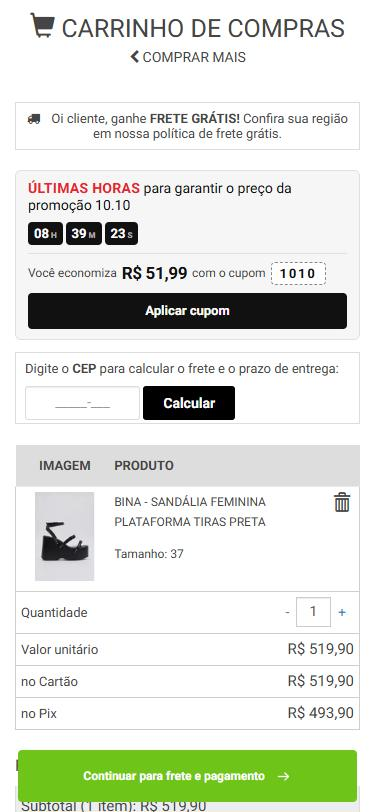
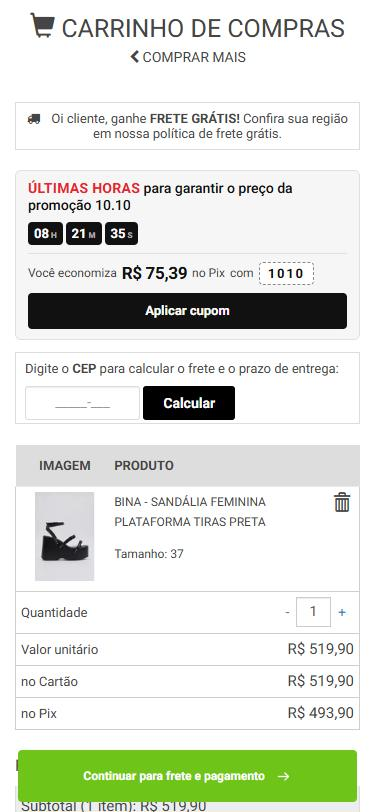
09/10

diff --git a/Fernando/PROJETOS-HTML/Fernando/css/UseHitzz/Ação 10.10/Tag Produto/tagEmAlta.js b/Fernando/PROJETOS-HTML/Fernando/css/UseHitzz/Ação 10.10/Tag Produto/tagEmAlta.js
@@ -1,0 +1,231 @@
+(function () {
+  "use strict";
+
+  /* =========================================================
+     HITZZ - TAG "EM ALTA"
+     Aparece em todas as páginas, sobre a foto de todo produto
+     que tiver a classe "tag-em-alta" (a plataforma coloca essa
+     classe no card quando o produto recebe a tag "em alta").
+     Na página do produto, entra acima do título quando o
+     <body> tiver a mesma classe.
+
+     Não tem calendário: enquanto o produto tiver a tag, aparece.
+  ========================================================= */
+
+  if (window.__hzEmAltaLoaded) {
+    return;
+  }
+
+  window.__hzEmAltaLoaded = true;
+
+
+  /* =========================================================
+     CONFIGURAÇÃO
+  ========================================================= */
+
+  var CONFIG = {
+    label: "Em alta",
+    icon: "🔥",
+
+    // Classe que a plataforma põe no produto com a tag
+    classeDoProduto: "tag-em-alta"
+  };
+
+  var SELETORES = {
+    card: ".product." + CONFIG.classeDoProduto,
+    foto: ".product-list-image-container",
+    paginaDeProduto: "body." + CONFIG.classeDoProduto,
+    tituloDoProduto: "#right-column h1.product-title, h1.product-title"
+  };
+
+  var STYLE_ID = "hz-em-alta-style";
+  var TAG_CLASS = "hz-em-alta";
+
+  var observer = null;
+  var observerFrame = null;
+
+
+  /* =========================================================
+     CSS
+     Mesmo estilo dos selos da loja ("Pré Venda"): preto, cantos
+     de 5px, texto branco em negrito. Fica no canto superior
+     direito da foto, para não disputar espaço com os selos da
+     esquerda.
+  ========================================================= */
+
+  var CSS = [
+    // Seletor com a classe da foto na frente: nas vitrines em carrossel a loja tem
+    // ".owl-item span{font-size:14px}", que ganharia de uma classe só
+    '.product-list-image-container .hz-em-alta,.hz-em-alta.hz-em-alta--pdp{box-sizing:border-box;display:inline-flex;align-items:center;gap:5px;margin:0;padding:6px 10px;border-radius:5px;background:#000;color:#fff;font-family:inherit;font-size:10px;font-weight:700;line-height:1.2;letter-spacing:.06em;text-transform:uppercase;white-space:nowrap;-webkit-font-smoothing:antialiased}',
+    '.product-list-image-container .hz-em-alta{position:absolute;top:10px;right:10px;z-index:11;pointer-events:none}',
+    '.hz-em-alta .hz-em-alta__txt{font-size:inherit;line-height:1.2;letter-spacing:inherit}',
+    '.hz-em-alta .hz-em-alta__icon{font-size:12px;letter-spacing:0;line-height:1}',
+
+    /* Na página do produto: acima do título */
+    '.hz-em-alta.hz-em-alta--pdp{margin:0 0 8px}',
+
+    '@media (max-width:600px){',
+    '.product-list-image-container .hz-em-alta{top:8px;right:8px;gap:4px;padding:5px 8px;font-size:9px}',
+    '.hz-em-alta .hz-em-alta__icon{font-size:11px}',
+    /* Card estreito com a tag "Último dia" da ação 10.10 na mesma linha: "Em alta" desce
+       para a linha de baixo. Se houver selo da loja (ex.: "Pré Venda"), é a "Último dia"
+       que desce, e "Em alta" continua em cima. */
+    '.product-list-image-container:has(.hz1010-tag):not(:has(.uoou-product-tag-badge)) .hz-em-alta{top:40px}',
+    '}'
+  ].join("");
+
+  function adicionarEstilo() {
+
+    if (document.getElementById(STYLE_ID)) {
+      return;
+    }
+
+    var style = document.createElement("style");
+
+    style.id = STYLE_ID;
+    style.textContent = CSS;
+
+    document.head.appendChild(style);
+  }
+
+
+  /* =========================================================
+     TAG
+  ========================================================= */
+
+  function criarTag(naPaginaDeProduto) {
+
+    var tag = document.createElement("span");
+
+    tag.className = TAG_CLASS + (naPaginaDeProduto ? " hz-em-alta--pdp" : "");
+
+    var texto = document.createElement("span");
+
+    texto.className = "hz-em-alta__txt";
+    texto.textContent = CONFIG.label;
+
+    var icone = document.createElement("span");
+
+    icone.className = "hz-em-alta__icon";
+    icone.textContent = CONFIG.icon;
+    icone.setAttribute("aria-hidden", "true");
+
+    tag.appendChild(texto);
+    tag.appendChild(icone);
+
+    return tag;
+  }
+
+  function temTag(pai) {
+
+    // Só os filhos diretos contam: evita tag duplicada no mesmo lugar
+    for (var i = 0; i < pai.children.length; i++) {
+
+      if (pai.children[i].classList.contains(TAG_CLASS)) {
+        return true;
+      }
+    }
+
+    return false;
+  }
+
+  function aplicar() {
+
+    var cards = document.querySelectorAll(SELETORES.card);
+    var pdp = document.querySelector(SELETORES.paginaDeProduto);
+
+    // Tira a tag de cards que perderam a classe (listas recarregadas por AJAX)
+    var tags = document.querySelectorAll(SELETORES.foto + " > ." + TAG_CLASS);
+
+    for (var t = 0; t < tags.length; t++) {
+
+      if (!tags[t].closest(SELETORES.card)) {
+        tags[t].remove();
+      }
+    }
+
+    if (!cards.length && !pdp) {
+      return;
+    }
+
+    adicionarEstilo();
+
+    // Cards de produto (home, categorias, busca, vitrines)
+    for (var i = 0; i < cards.length; i++) {
+
+      var foto = cards[i].querySelector(SELETORES.foto);
+
+      if (foto && !temTag(foto)) {
+        foto.appendChild(criarTag(false));
+      }
+    }
+
+    // Página do produto: acima do título
+    if (pdp) {
+
+      var titulo = document.querySelector(SELETORES.tituloDoProduto);
+
+      if (
+        titulo &&
+        titulo.parentNode &&
+        !(titulo.previousElementSibling && titulo.previousElementSibling.classList.contains(TAG_CLASS))
+      ) {
+        titulo.parentNode.insertBefore(criarTag(true), titulo);
+      }
+    }
+  }
+
+
+  /* =========================================================
+     OBSERVER
+     Cobre produtos carregados depois (paginação, filtros, vitrines)
+  ========================================================= */
+
+  function iniciarObserver() {
+
+    if (observer || !window.MutationObserver) {
+      return;
+    }
+
+    observer = new MutationObserver(function () {
+
+      if (observerFrame) {
+        return;
+      }
+
+      // setTimeout em vez de requestAnimationFrame: funciona também com a aba em segundo plano
+      observerFrame = setTimeout(function () {
+
+        observerFrame = null;
+
+        aplicar();
+      }, 60);
+    });
+
+    observer.observe(document.documentElement, {
+      childList: true,
+      subtree: true,
+      attributes: true,
+      attributeFilter: ["class"]
+    });
+  }
+
+
+  /* =========================================================
+     START
+  ========================================================= */
+
+  function init() {
+
+    aplicar();
+
+    iniciarObserver();
+  }
+
+  if (document.readyState === "loading") {
+    document.addEventListener("DOMContentLoaded", init);
+  } else {
+    init();
+  }
+
+})();

diff --git a/Fernando/PROJETOS-HTML/Fernando/css/UseHitzz/Ação 10.10/Carrinho/cupomCarrinho.js b/Fernando/PROJETOS-HTML/Fernando/css/UseHitzz/Ação 10.10/Carrinho/cupomCarrinho.js
@@ -31,7 +31,7 @@
     headlineRest: "para garantir o preço da promoção 10.10",
     coupon: "1010",
 
-    // O cupom dá 10% sobre o valor dos produtos
+    // O cupom dá 10%; no bloco ele é somado ao desconto do Pix que o carrinho já mostra
     couponDiscount: 0.10
   };
 
@@ -41,7 +41,8 @@
     linhaCupom: ".rowCartPromotionCodes",
     campoCupom: "#uoou_cart_promotionCoupons_0",
     botaoCupom: "#apply-coupon",
-    subtotal: "#cartContainer .cartSubtotal .itemTotalPrice"
+    subtotal: "#cartContainer .cartSubtotal .itemTotalPrice",
+    totalPix: "#cartContainer .cart-cash-payment .cash-price"
   };
 
 
@@ -194,6 +195,7 @@
     /* Economia com o cupom + botão */
     '.hz1010-cart__foot{display:flex;flex-wrap:wrap;align-items:center;justify-content:space-between;gap:10px 20px;margin-top:12px;padding-top:12px;border-top:1px solid #e0e0e0}',
     '.hz1010-cart__saving{display:flex;flex-wrap:wrap;align-items:center;gap:4px 7px;margin:0;color:#444;font-size:14px;line-height:1.2}',
+    '.hz1010-cart__pix[hidden]{display:none}',
     '.hz1010-cart__value{color:#111;font-size:20px;font-weight:800;line-height:1;letter-spacing:-.02em;font-variant-numeric:tabular-nums}',
     '.hz1010-cart__code{display:inline-block;padding:5px 10px;border:1px dashed #8a8a8a;border-radius:4px;background:#fff;color:#111;font-size:15px;font-weight:800;line-height:1;letter-spacing:.14em}',
     '.hz1010-cart__btn{-webkit-appearance:none;appearance:none;display:inline-flex;align-items:center;justify-content:center;width:auto;height:40px;min-width:0;margin:0;padding:0 22px;border:0;border-radius:4px;background:#111;box-shadow:none;color:#fff;font:inherit;font-size:14px;font-weight:700;line-height:1;letter-spacing:0;text-transform:none;white-space:nowrap;cursor:pointer;transition:background-color .15s}',
@@ -219,6 +221,7 @@
     '.hz1010-cart__saving{gap:3px 5px;font-size:12px}',
     '.hz1010-cart__value{font-size:17px}',
     '.hz1010-cart__code{padding:4px 8px;font-size:13px}',
+    '.hz1010-cart__lg{display:none}',
     '.hz1010-cart__btn{width:100%;height:36px;font-size:13px}',
     '}',
 
@@ -250,7 +253,7 @@
         '<span class="hz1010-cart__clock" data-hz1010-cart-timer aria-hidden="true"></span>' +
       '</div>' +
       '<div class="hz1010-cart__foot">' +
-        '<p class="hz1010-cart__saving"><span data-hz1010-cart-lead></span><strong class="hz1010-cart__value" data-hz1010-cart-saving></strong><span>com o cupom</span><span class="hz1010-cart__code">' + esc(CONFIG.coupon) + '</span></p>' +
+        '<p class="hz1010-cart__saving"><span data-hz1010-cart-lead></span><strong class="hz1010-cart__value" data-hz1010-cart-saving></strong><span class="hz1010-cart__pix" data-hz1010-cart-pix>no Pix</span><span>com<span class="hz1010-cart__lg"> o cupom</span></span><span class="hz1010-cart__code">' + esc(CONFIG.coupon) + '</span></p>' +
         '<button type="button" class="hz1010-cart__btn" data-hz1010-cart-apply></button>' +
       '</div>';
   }
@@ -277,10 +280,36 @@
       return false;
     }
 
-    var economia = Math.round(subtotal * CONFIG.couponDiscount * 100) / 100;
     var aplicado = cupomAplicado();
 
     bloco.classList.toggle("is-applied", aplicado);
+
+    // Economia pagando no Pix = produtos - total no Pix já com o cupom.
+    // Antes de aplicar, o total no Pix exibido ainda não tem os 10% do cupom.
+    var pix = lerPreco(document.querySelector(SELETORES.totalPix));
+    var temPix = pix > 0 && pix < subtotal;
+
+    var economia;
+
+    if (temPix) {
+
+      var pixFinal = aplicado
+        ? pix
+        : Math.round(pix * (1 - CONFIG.couponDiscount) * 100) / 100;
+
+      economia = Math.round((subtotal - pixFinal) * 100) / 100;
+
+    } else {
+
+      // Sem preço no Pix no carrinho: mostra só a economia do cupom
+      economia = Math.round(subtotal * CONFIG.couponDiscount * 100) / 100;
+    }
+
+    var seloPix = bloco.querySelector("[data-hz1010-cart-pix]");
+
+    if (seloPix) {
+      seloPix.hidden = !temPix;
+    }
 
     definirTexto(
       bloco.querySelector("[data-hz1010-cart-lead]"),

diff --git a/Fernando/PROJETOS-HTML/Fernando/css/UseHitzz/Ação 10.10/Tag Produto/tagProduto.js b/Fernando/PROJETOS-HTML/Fernando/css/UseHitzz/Ação 10.10/Tag Produto/tagProduto.js
@@ -131,11 +131,14 @@
     '.product-list-image-container .hz1010-tag{position:absolute;top:10px;left:0;z-index:11;box-sizing:border-box;display:inline-flex;align-items:center;gap:5px;margin:0;padding:7px 11px 7px 10px;border-radius:0 999px 999px 0;background:#e5262e;box-shadow:0 2px 8px rgba(0,0,0,.18);color:#fff;font-family:inherit;font-size:13px;font-weight:800;line-height:1;letter-spacing:.08em;text-transform:uppercase;text-align:left;white-space:nowrap;pointer-events:none;-webkit-font-smoothing:antialiased}',
 
     /* Foguinho: sem espaçamento de letra e um pouco maior que o texto */
+    /* Com selo da loja no mesmo canto (ex.: "Pré Venda"), a tag fica logo abaixo dele */
+    '.product-list-image-container:has(.uoou-product-tag-badge) .hz1010-tag{top:44px}',
     '.hz1010-tag .hz1010-tag__txt{font-size:inherit;line-height:1}',
     '.hz1010-tag .hz1010-tag__icon{font-size:14px;letter-spacing:0;line-height:1}',
 
     '@media (max-width:600px){',
     '.product-list-image-container .hz1010-tag{top:8px;gap:4px;padding:6px 9px 6px 8px;font-size:11px}',
+    '.product-list-image-container:has(.uoou-product-tag-badge) .hz1010-tag{top:44px}',
     '.hz1010-tag .hz1010-tag__icon{font-size:12px}',
     '}'
   ].join("");
